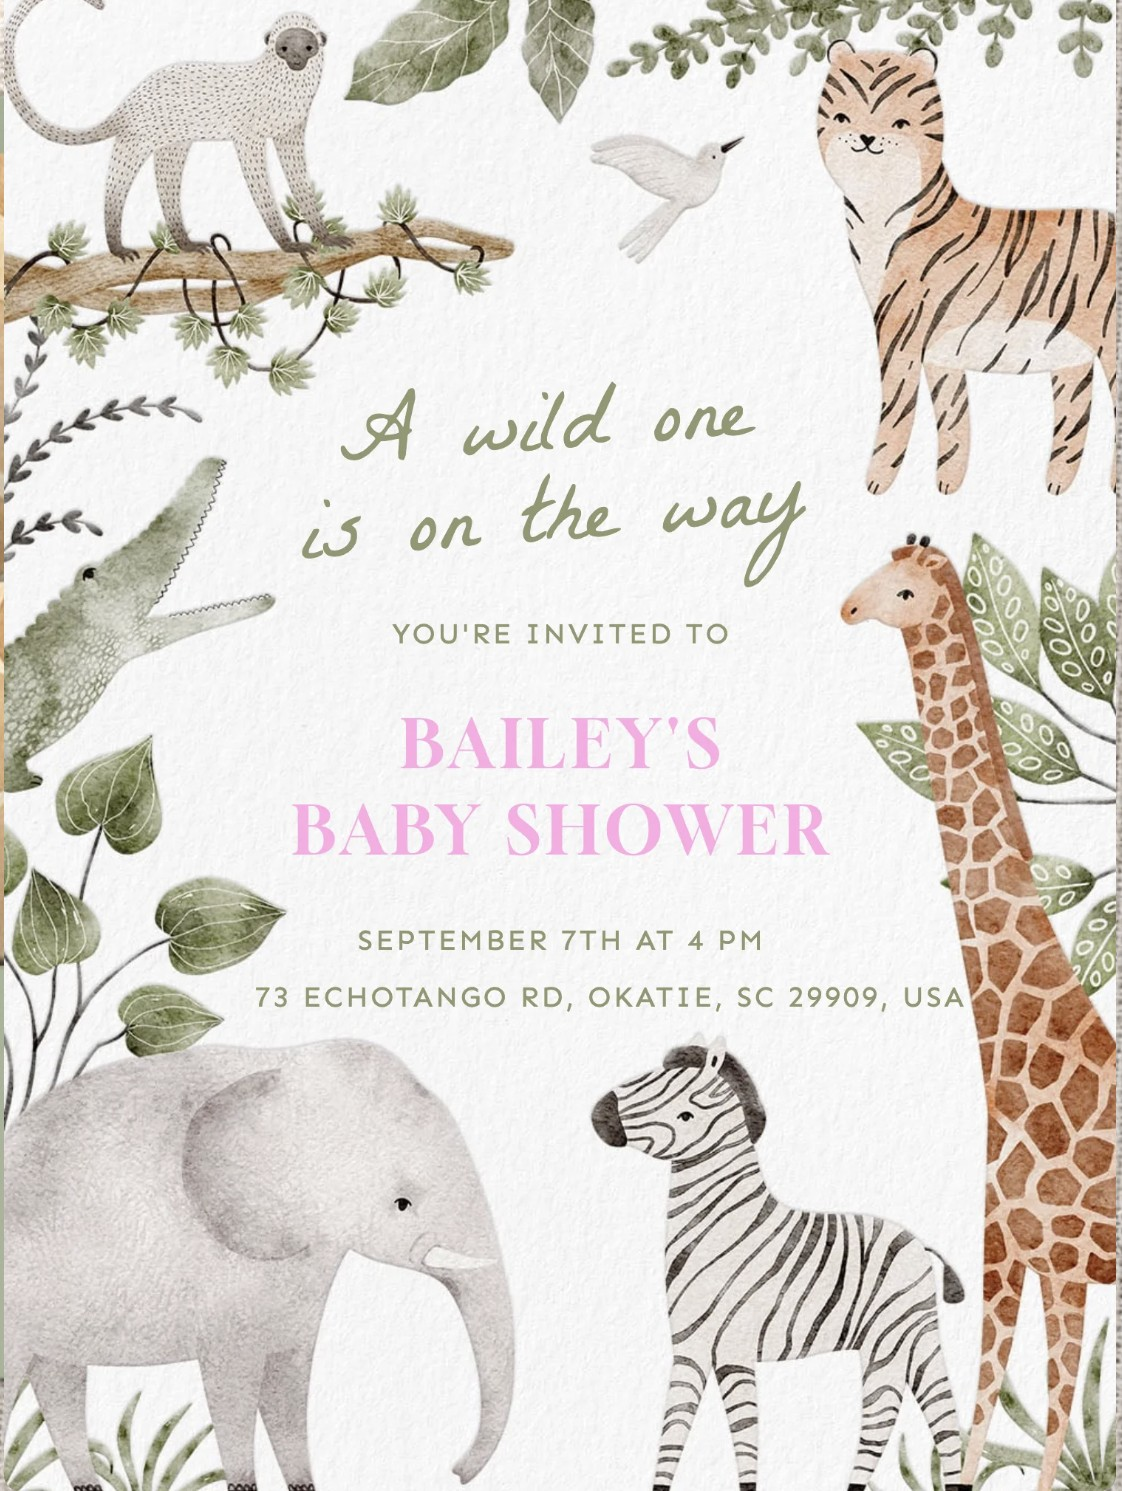
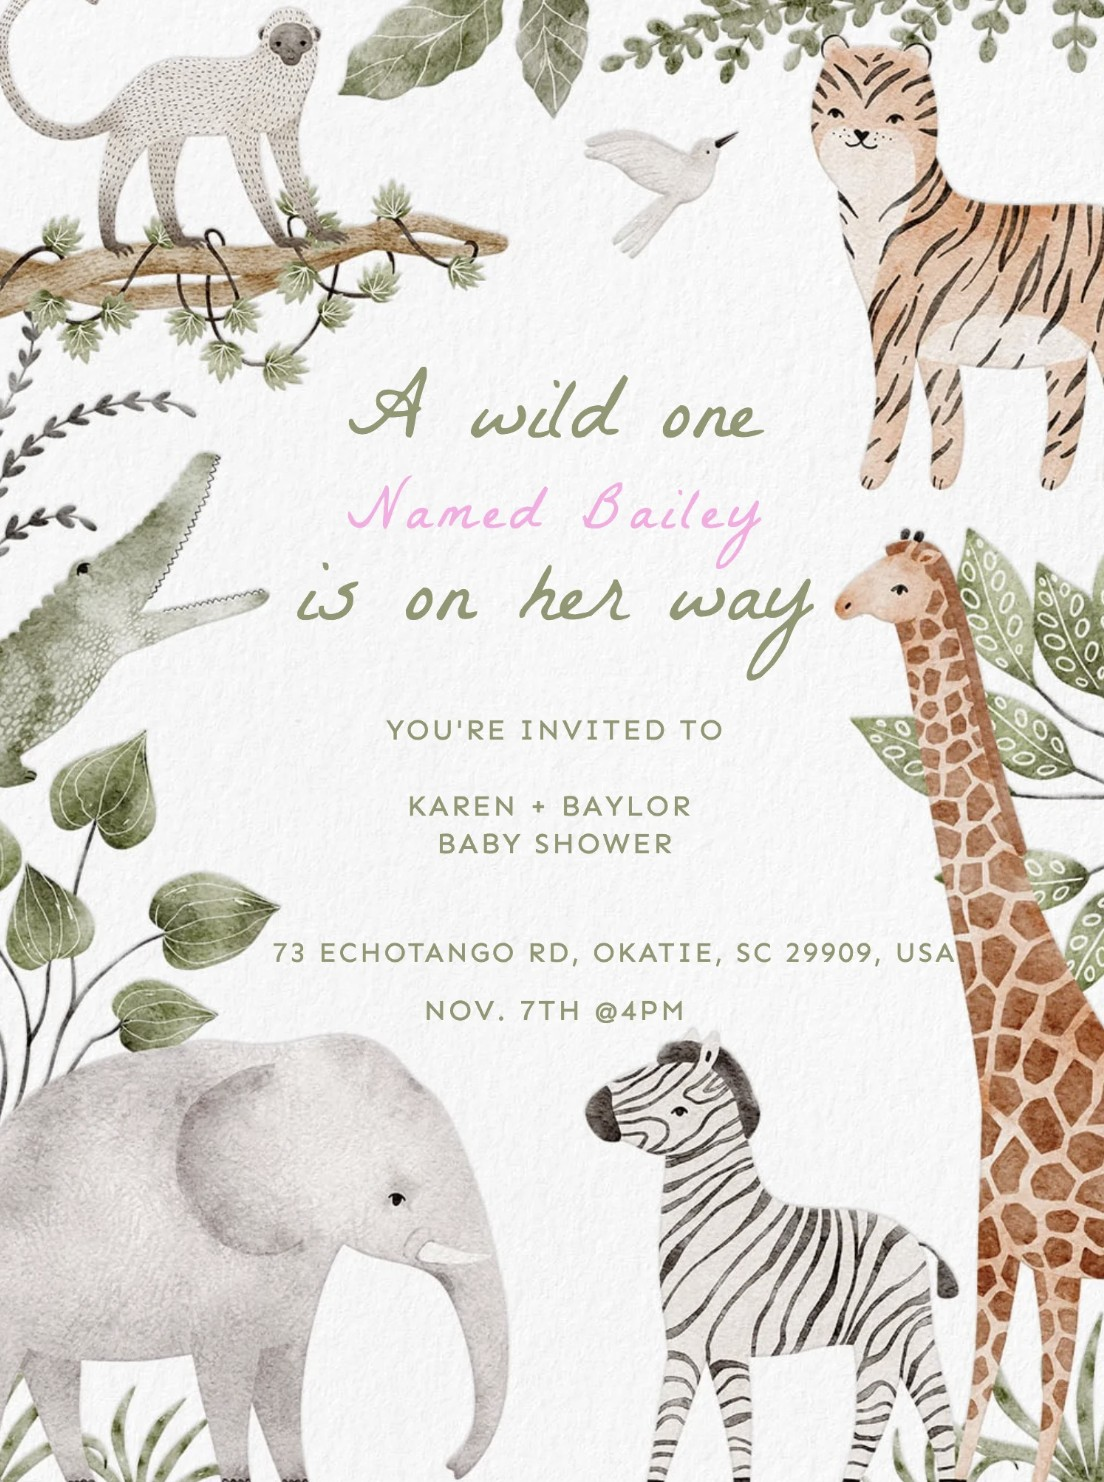
all

diff --git a/index.html b/index.html
@@ -65,10 +65,11 @@
   #hero{
     background: var(--cream);
     text-align:center;
+    display:flex;
     flex-direction:column;
-    align-items:stretch;
-    padding:20px 16px 28px;
-    gap:0;
+    align-items:center;
+    justify-content:center;
+    padding:24px 16px;
   }
   .hero-inner{
     max-width:600px;
@@ -84,8 +85,9 @@
   }
   .hero-image-wrap{
     width:100%;
-    height:100%;
-    max-height:82svh;
+    max-width:480px;
+    max-height:84svh;
+    margin:0 auto;
     border-radius:18px;
     overflow:hidden;
     box-shadow:0 20px 50px rgba(92,107,76,0.18);
@@ -96,28 +98,11 @@
     display:block;
     width:100%;
     height:100%;
-    object-fit:cover;
-    object-position:center top;
-  }
-  .hero-caption{
-    margin-top:18px;
-  }
-  .hero-caption .kicker-sm{
-    font-size:13px;
-    letter-spacing:0.16em;
-    color:var(--sage-dark);
-    opacity:0.85;
-    margin-bottom:4px;
-  }
-  .hero-caption .names{
-    font-family:'Caveat', cursive;
-    font-weight:700;
-    font-size:clamp(28px,5.5vw,38px);
-    color:var(--blush-dark);
-    line-height:1.1;
+    object-fit:contain;
+    object-position:center center;
   }
   .scroll-cue{
-    margin-top:16px;
+    margin-top:20px;
     font-size:13px;
     letter-spacing:0.14em;
     color:var(--sage-dark);
@@ -128,8 +113,8 @@
     gap:8px;
   }
   @media (max-width:480px){
-    #hero{ padding:16px 12px 22px; }
-    .hero-image-wrap{ border-radius:14px; max-height:74svh; }
+    #hero{ padding:18px 12px; }
+    .hero-image-wrap{ border-radius:14px; max-height:78svh; }
   }
 
   /* ---------- shared section styling ---------- */
@@ -234,6 +219,11 @@
     margin-top:34px;
     padding-top:30px;
     border-top:1px dashed var(--line);
+    display:flex;
+    flex-direction:column;
+    align-items:center;
+    justify-content:center;
+    gap:12px;
   }
   .family-row .kicker-sm{
     font-size:13px;
@@ -241,7 +231,6 @@
     color:var(--blush-dark);
     opacity:0.9;
     font-weight:600;
-    margin-bottom:12px;
   }
   .parents-badge{
     display:inline-flex;
@@ -252,8 +241,19 @@
     border-radius:999px;
     padding:14px 28px;
     box-shadow:0 10px 24px rgba(176,87,158,0.10);
+    line-height:1;
   }
-  .parents-badge .heart{ font-size:18px; }
+  .parents-badge .heart{
+    font-size:18px;
+    line-height:1;
+    display:inline-flex;
+    align-items:center;
+    transform:translateY(-1px);
+  }
+  .parents-badge .parent-names{
+    display:inline-flex;
+    align-items:center;
+  }
   .parents-badge .parent-names{
     font-family:'Caveat', cursive;
     font-weight:700;
@@ -383,11 +383,7 @@
 <section id="hero">
   <div class="hero-inner">
     <div class="hero-image-wrap">
-      <img src="assets/invite.jpg" alt="A wild one is on the way — Baby Shower invitation">
-    </div>
-    <div class="hero-caption">
-      <div class="kicker-sm">YOU'RE INVITED TO</div>
-      <div class="names">Karen + Baylor<br>Baby Shower</div>
+      <img src="assets/invite.jpg" alt="A wild one named Bailey is on her way — Karen + Baylor Baby Shower invitation">
     </div>
     <div class="scroll-cue">
       <span>SCROLL FOR DETAILS</span>
@@ -401,7 +397,10 @@
   <div class="card">
     <div class="kicker">Save the date</div>
     <div class="date-box">
-      <span class="time" style="margin-top:0; font-size:28px; font-weight:700; color:var(--tan-dark);">Nov. 7th @4pm</span>
+      <span class="weekday">SATURDAY</span>
+      <span class="day">7 <sup style="font-size:0.35em;">th</sup></span>
+      <span class="month">NOVEMBER 2026</span>
+      <span class="time">4:00 PM</span>
     </div>
   </div>
 </section>
@@ -429,13 +428,13 @@
   <div class="card">
     <div class="host-circle">R&amp;M</div>
     <div class="kicker">Hosted with love by</div>
-    <h2 class="title" style="margin-bottom:4px;">Rhonda Sims</h2>
-    <p class="body-text" style="margin-bottom:14px; opacity:0.8;">(843) 321-1322</p>
-    <div style="font-family:'Caveat',cursive; font-size:22px; color:var(--sage-dark); margin-bottom:10px;">+</div>
-    <h2 class="title" style="margin-bottom:4px;">Mariandrea</h2>
-    <p class="body-text" style="margin-bottom:26px; opacity:0.8;">(919) 824-0065</p>
+    <p class="body-text" style="margin-bottom:4px; font-weight:700; font-size:15px; letter-spacing:0.03em; opacity:0.9;">Rhonda Sims</p>
+    <p class="body-text" style="margin-bottom:14px; opacity:0.75; font-size:14px;">(843) 321-1322</p>
+    <div style="font-family:'Caveat',cursive; font-size:20px; color:var(--sage-dark); margin-bottom:10px;">+</div>
+    <p class="body-text" style="margin-bottom:4px; font-weight:700; font-size:15px; letter-spacing:0.03em; opacity:0.9;">Mariandrea</p>
+    <p class="body-text" style="margin-bottom:26px; opacity:0.75; font-size:14px;">(919) 824-0065</p>
 
-    <div class="family-row">
+    <div class="family-row" style="text-align:center;">
       <div class="kicker-sm">PARENTS-TO-BE</div>
       <div class="parents-badge">
         <span class="heart">🩷</span>
@@ -514,10 +513,19 @@
     const form = document.getElementById('rsvp-form');
     const frame = document.getElementById('rsvp-hidden-frame');
     const thanks = document.getElementById('rsvp-thanks');
+    const submitBtn = form.querySelector('button[type="submit"]');
     let submitted = false;
 
     form.addEventListener('submit', function(){
+      if(submitted){
+        // already submitting or submitted — block any further clicks
+        return false;
+      }
       submitted = true;
+      submitBtn.disabled = true;
+      submitBtn.style.opacity = '0.6';
+      submitBtn.style.cursor = 'not-allowed';
+      submitBtn.textContent = 'Sending…';
     });
 
     frame.addEventListener('load', function(){
